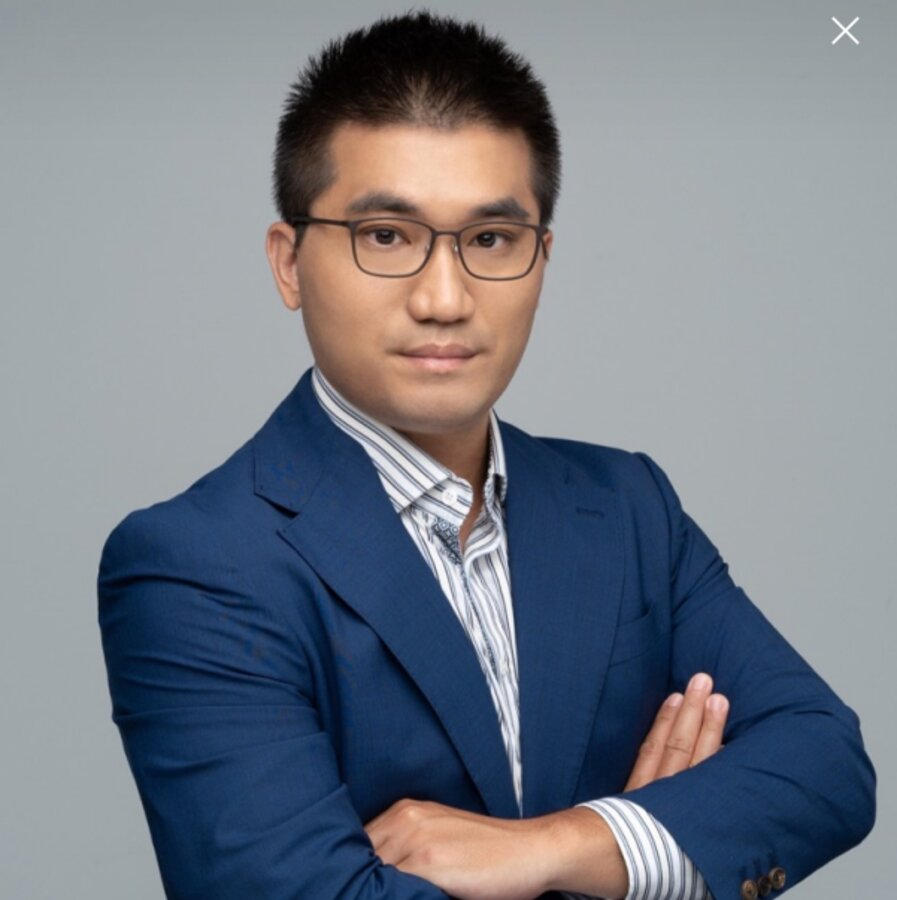
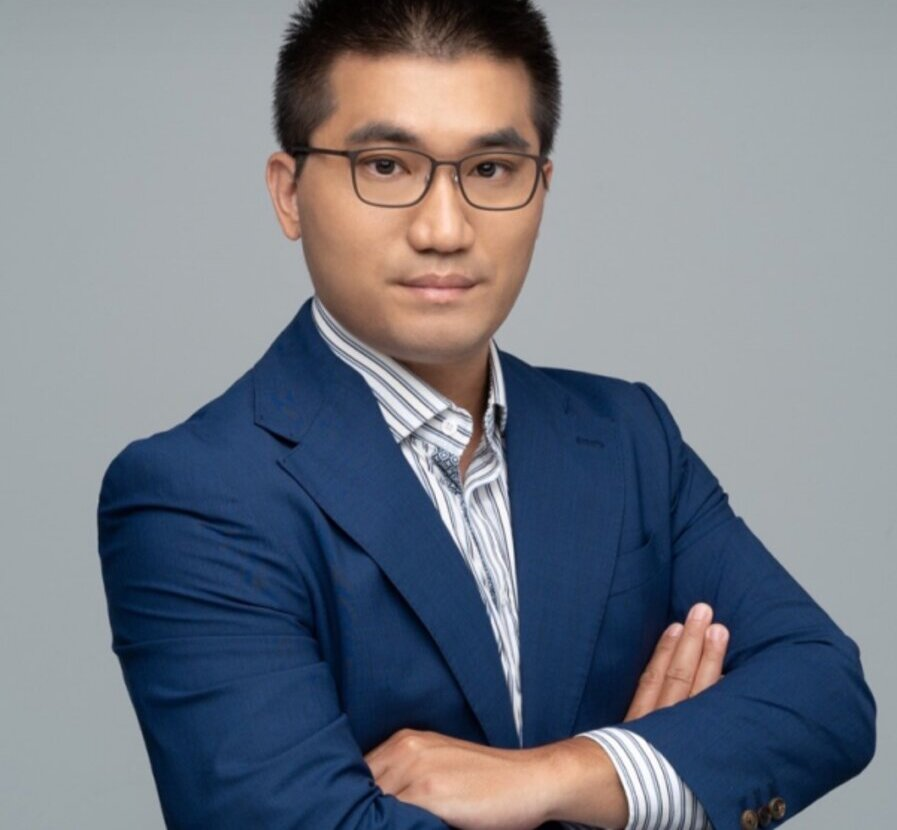
裁掉照片關閉圖示、修正標題斷行

diff --git a/index.html b/index.html
@@ -101,9 +101,9 @@
           <span class="h-2 w-2 animate-pulse rounded-full bg-sun"></span>
           第十屆學生會會長候選人
         </p>
-        <h1 class="text-4xl font-black leading-tight sm:text-5xl lg:text-6xl">
+        <h1 class="text-4xl font-black leading-tight sm:text-5xl xl:text-6xl">
           讓每一個聲音<br />
-          都掀起<span class="bg-gradient-to-r from-wave to-sun bg-clip-text text-transparent">改變的浪潮</span>
+          <span class="whitespace-nowrap">都掀起</span><wbr /><span class="whitespace-nowrap bg-gradient-to-r from-wave to-sun bg-clip-text text-transparent">改變的浪潮</span>
         </h1>
         <p class="mt-6 max-w-lg text-lg leading-relaxed text-white/80">
           我是 115BA <strong class="text-white">莊偉甫</strong>，大家都叫我 <strong class="font-display text-white">WAVE</strong>。學生會不該只是辦活動的單位，而是替你把話說進校方會議室的那群人。
@@ -122,7 +122,7 @@
 
       <div class="reveal reveal-d2 relative mx-auto w-full max-w-md">
         <div class="absolute inset-0 translate-x-4 translate-y-4 rounded-[2rem] bg-gradient-to-br from-sun to-wave"></div>
-        <img src="wave.jpg" alt="第十屆學生會會長候選人 莊偉甫 WAVE" class="relative w-full rounded-[2rem] object-cover shadow-2xl" width="900" height="900" />
+        <img src="wave.jpg" alt="第十屆學生會會長候選人 莊偉甫 WAVE" class="relative w-full rounded-[2rem] object-cover shadow-2xl" width="897" height="830" />
         <div class="absolute -bottom-6 -left-4 rounded-2xl bg-white px-5 py-4 text-navy shadow-xl sm:-left-8">
           <p class="text-xs font-medium text-slate-500">第十屆學生會會長候選人</p>
           <p class="text-2xl font-black">莊偉甫 <span class="font-display">WAVE</span></p><p class="text-xs text-slate-500">115BA</p>
